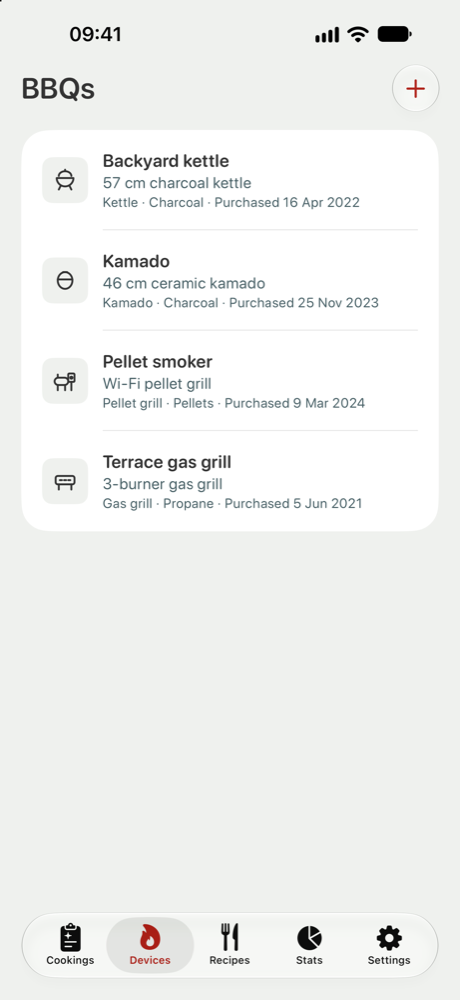
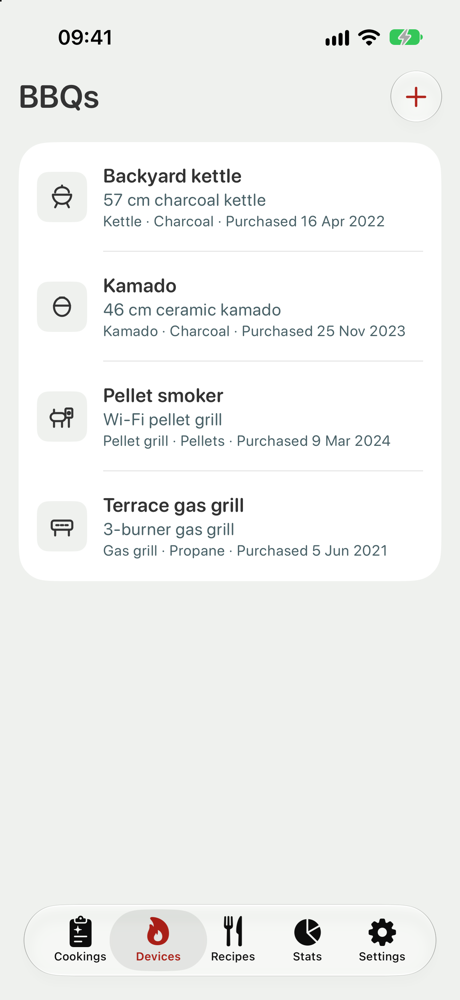
docs: add quick actions, iCloud sync and a table of contents to the showcase
Add the app icon, a table of contents, emoji headings and bold keywords. Explain the Home Screen quick actions with a screenshot of the menu and iCloud sync, and re-capture the cookings, cooking detail and devices screenshots with the new demo barbecue names.

diff --git a/README.md b/README.md
@@ -1,11 +1,15 @@
 <!-- showcase:hero:start -->
+<p align="center">
+  <img src="assets/img/app-icon.png" alt="GrillMate app icon" width="128">
+</p>
+
 # GrillMate
 
 **Log cooks, grills & recipes.**
 
-GrillMate is a native iOS logbook for barbecue: record every cooking session, keep track of your grills and smokers, save the recipes you want to make again, see how you cook through stats and charts, and keep everything in sync across your devices with iCloud. It's built with SwiftUI for iOS 26.
+GrillMate is a **native iOS logbook for barbecue**: record every cooking session, keep track of your grills and smokers, save the recipes you want to make again, see how you cook through **stats and charts**, and keep everything in sync across your devices with **iCloud**. It's built with **SwiftUI for iOS 26**.
 
-A personal project by Andrea Stevanato, designed, built, tested and shipped end to end. The app's source code is private: this README shows what the app does and explains how it's built.
+A personal project by **Andrea Stevanato**, designed, built, tested and shipped end to end. The app's source code is private: this README shows what the app does and explains how it's built.
 
 <p align="center">
   <img src="assets/screenshots/cookings.png" alt="Cookings list" width="200">
@@ -17,46 +21,61 @@ A personal project by Andrea Stevanato, designed, built, tested and shipped end 
 
 Website: [grillmate.pages.dev](https://grillmate.pages.dev/)
 
+<!-- showcase:toc:start -->
+## 📑 Contents
+
+- [👀 At a glance](#-at-a-glance)
+- [✨ Features](#-features)
+  - [🍖 Cookings](#-cookings) · [🔥 Devices](#-devices) · [📖 Recipes](#-recipes) · [📊 Stats](#-stats)
+  - [⚡ Quick actions](#-quick-actions) · [🔄 iCloud sync](#-icloud-sync) · [🔧 Settings and onboarding](#-settings-and-onboarding)
+- [🧰 Tech stack](#-tech-stack)
+- [🧱 Architecture](#-architecture)
+- [💡 Technical highlights](#-technical-highlights)
+- [✅ Quality](#-quality)
+- [🆕 What's new](#-whats-new)
+- [🔭 What's next](#-whats-next)
+<!-- showcase:toc:end -->
+
 <!-- showcase:glance:start -->
-## At a glance
+## 👀 At a glance
 
 | | |
 |---|---|
-| **What** | A complete iOS app: five tabs, add/edit forms with photos, charts, theming, iCloud sync, data export and import, onboarding, English and Italian |
-| **Architecture** | Modular: one Swift package per feature plus shared core and UI packages, MVVM with repositories and dependency injection |
-| **Modern Apple stack** | Swift 6 strict concurrency, SwiftUI, Observation, Swift Charts, Core Data with CloudKit, Swift Testing |
+| **What** | A complete iOS app: five tabs, add/edit forms with photos, charts, theming, **iCloud sync**, data export and import, **Home Screen quick actions**, onboarding, English and Italian |
+| **Architecture** | **Modular**: one Swift package per feature plus shared core and UI packages, **MVVM** with repositories and **dependency injection** |
+| **Modern Apple stack** | **Swift 6** strict concurrency, **SwiftUI**, Observation, **Swift Charts**, **Core Data with CloudKit**, **Swift Testing** |
 | **Engineering practice** | Generated Xcode project, lint in the build, unit tests per package, Conventional Commits, gitflow and a changelog |
 <!-- showcase:glance:end -->
 
 <!-- showcase:features:start -->
-## Features
+## ✨ Features
 
 Every screenshot is taken from the app running on demo data.
 
-### Cookings
-Log every session and follow it from planned to completed.
+### 🍖 Cookings
+Log every session and follow it from **planned** to **completed**.
 
 <p align="center">
   <img src="assets/screenshots/cookings.png" alt="Cookings list grouped by month" width="260">
   <img src="assets/screenshots/cooking-detail.png" alt="Cooking detail with a stretchy photo header" width="260">
 </p>
 
-- Title, barbecue, status (planned, in progress, completed), proteins and technique
-- Start and end time, target, reached and ambient temperatures, notes
-- Up to 3 photos per cook, from the camera or the photo library
-- A list grouped by month, with photo banners and swipe to complete
+- Title, barbecue, **status** (planned, in progress, completed), proteins and technique
+- Start and end time, **target, reached and ambient temperatures**, notes
+- Up to **3 photos** per cook, from the camera or the photo library
+- A list **grouped by month**, with photo banners and **swipe to complete**
 
-### Devices
+### 🔥 Devices
 All your grills, smokers, kamados and planchas in one place.
 
 <p align="center">
   <img src="assets/screenshots/devices.png" alt="Devices list" width="260">
 </p>
 
-- Manufacturer picked from a long list of brands (or "Other"), plus model and description
-- Type, fuel, grilling area, burners, portability, purchase date and notes
+- **Manufacturer** picked from a long list of brands (or "Other"), plus model and description
+- Type, **fuel**, grilling area, burners, portability, purchase date and notes
 
-### Recipes
+### 📖 Recipes
 Save the recipes you want to make again.
 
 <p align="center">
@@ -64,61 +83,78 @@ Save the recipes you want to make again.
   <img src="assets/screenshots/recipe-detail.png" alt="Recipe detail with a photo gallery" width="260">
 </p>
 
-- Name, summary, technique, prep and cook time, servings and target core temperature
-- Ingredients with quantity and unit, ordered steps, notes and up to 3 photos
-- A swipeable full-width photo gallery in the detail
+- Name, summary, technique, **prep and cook time**, servings and **target core temperature**
+- **Ingredients** with quantity and unit, **ordered steps**, notes and up to 3 photos
+- A swipeable full-width **photo gallery** in the detail
 
-### Stats
-See how you cook, with Swift Charts.
+### 📊 Stats
+See how you cook, with **Swift Charts**.
 
 <p align="center">
   <img src="assets/screenshots/stats.png" alt="Stats for this year" width="260">
   <img src="assets/screenshots/stats-ocean.png" alt="Stats with the Ocean accent color" width="260">
 </p>
 
-- This month's cooks, total, average and longest cooking time, and a chart of the proteins cooked
-- Extended stats (PRO): other periods, time per barbecue, techniques, barbecue types, cooks per month, core temperature accuracy and busiest day
-- Charts follow the accent color chosen in Settings (right: the Ocean theme)
+- This month's cooks, **total, average and longest cooking time**, and a chart of the proteins cooked
+- **Extended stats (PRO)**: other periods, time per barbecue, techniques, barbecue types, cooks per month, core temperature accuracy and busiest day
+- Charts follow the **accent color** chosen in Settings (right: the Ocean theme)
 
-### Settings, sync and onboarding
+### ⚡ Quick actions
+Long-press the app icon to jump straight into the app.
+
+<p align="center">
+  <img src="assets/screenshots/quick-actions.png" alt="Home Screen quick actions menu" width="260">
+</p>
+
+- **New cooking**, **New recipe**, **Stats** and **Add device**, one tap from the Home Screen
+- The **cooking in progress**, or the next planned one, comes first and opens directly, so you can update a cook while it's on the grill
+- The menu is **dynamic**: it's refreshed every time you leave the app, so it always shows your current cook, in English or Italian
+
+### 🔄 iCloud sync
+Your logbook on every device.
+
+- Barbecues, cookings, recipes and **photos** sync across your iPhones through your **private iCloud database** (PRO)
+- One toggle in Settings turns sync **on or off immediately**, without restarting the app
+- Open lists **refresh by themselves** when changes arrive from another device
+- **Export** everything, photos included, to a single file, and **import** it back to restore your data on any iPhone
+
+### 🔧 Settings and onboarding
 
 <p align="center">
   <img src="assets/screenshots/settings.png" alt="Settings with the Data section" width="260">
   <img src="assets/screenshots/onboarding.png" alt="Onboarding tour" width="260">
 </p>
 
-- Light, dark or system appearance, six accent colors and eight app icons (PRO)
-- iCloud sync across devices (PRO), turned on and off without restarting the app
-- Export everything, photos included, to a file, and import it back to restore your data on any iPhone
-- A first-launch onboarding tour that can be replayed
+- Light, dark or system appearance, **six accent colors** and **eight app icons** (PRO)
+- A first-launch **onboarding tour** that can be replayed
 - Privacy policy, terms of use and release notes open on the GrillMate website, in the app's language
-- Full-screen photo viewer with paging and pinch to zoom
-- English and Italian
+- Full-screen **photo viewer** with paging and pinch to zoom
+- **English and Italian**
 <!-- showcase:features:end -->
 
 <!-- showcase:stack:start -->
-## Tech stack
+## 🧰 Tech stack
 
 | Area | Choice |
 |------|--------|
-| Platform | iOS 26+, Xcode 26 |
-| Language | Swift 6 with strict concurrency; main-actor default isolation and approachable concurrency in the app target |
-| UI | SwiftUI, Observation (`@Observable`), Swift Charts |
-| Persistence | Core Data, used as a Codable store, mirrored to the user's private iCloud database with CloudKit |
+| Platform | **iOS 26+**, Xcode 26 |
+| Language | **Swift 6** with strict concurrency; main-actor default isolation and approachable concurrency in the app target |
+| UI | **SwiftUI**, Observation (`@Observable`), **Swift Charts** |
+| Persistence | **Core Data**, used as a Codable store, mirrored to the user's private iCloud database with **CloudKit** |
 | Dependency injection | [Factory](https://github.com/hmlongco/Factory), behind a thin in-house wrapper |
-| Modularization | Local Swift packages: one per feature plus two shared ones |
+| Modularization | Local **Swift packages**: one per feature plus two shared ones |
 | Project generation | [Tuist](https://tuist.dev) |
 | Lint | [SwiftLint](https://github.com/realm/SwiftLint), run as a pre-build phase, with custom rules |
-| Tests | Swift Testing |
+| Tests | **Swift Testing** |
 | Localization | String catalogs (`.xcstrings`), English and Italian |
 
 Factory is the only third-party runtime dependency.
 <!-- showcase:stack:end -->
 
 <!-- showcase:architecture:start -->
-## Architecture
+## 🧱 Architecture
 
-The app target is a thin shell: it owns the `TabView` and wires each tab to a feature package. Everything else lives in local Swift packages.
+The app target is a **thin shell**: it owns the `TabView`, the scene delegate for quick actions and the deep-link routing, and wires each tab to a feature package. Everything else lives in local Swift packages.
 
 ```mermaid
 graph TD
@@ -140,7 +176,7 @@ graph TD
 - **`GrillMateCoreUI` doesn't depend on `GrillMateCore`.** Shared components take plain, already formatted values, and each feature maps its domain models to them.
 - **One public entry point per feature**: a `@MainActor` factory enum that returns the feature's navigation stack. Screens, view models and routes stay internal to the package.
 
-### Data flow
+### 🔀 Data flow
 
 ```mermaid
 flowchart LR
@@ -151,73 +187,78 @@ flowchart LR
     DataSource --> CoreData[(Core Data)]
 ```
 
-View models are `@Observable` main-actor classes that expose a `ViewState<T>` (idle, loading, loaded, error) and resolve their repositories from the DI container. Only the repository protocols are public: data sources and the Core Data stack are internal to `GrillMateCore` and do their work on background contexts.
+View models are `@Observable` main-actor classes that expose a `ViewState<T>` (idle, loading, loaded, error) and resolve their repositories from the DI container. Only the **repository protocols are public**: data sources and the Core Data stack are internal to `GrillMateCore` and do their work on **background contexts**.
 <!-- showcase:architecture:end -->
 
 <!-- showcase:highlights:start -->
-## Technical highlights
+## 💡 Technical highlights
 
-### Navigation as data
-Each feature owns a generic, observable `Router<Route>` bound to `NavigationStack(path:)`, with an enum of routes. Screens never touch the router: they receive closures such as `onAddTapped` or `onCookingTapped`, so they stay reusable and easy to preview.
+### 🧭 Navigation as data
+Each feature owns a generic, observable `Router<Route>` bound to `NavigationStack(path:)`, with an enum of routes. Screens never touch the router: they receive closures such as `onAddTapped` or `onCookingTapped`, so they stay **reusable and easy to preview**.
 
-### Core Data as a Codable blob store
-Every persisted entity has the same three attributes: an id, a JSON-encoded payload of the domain model and an update date. Domain models stay plain `Codable` Swift structs, and adding a persisted type takes one entity plus a small data source on top of generic fetch and upsert helpers. Models that change shape keep decoding their legacy payloads, with tests that decode the old JSON. The schema follows CloudKit's rules (no uniqueness constraints, every attribute optional), enforced by a test.
+### ⚡ Quick actions as deep links
+Every quick action is a **deep link** on a custom URL scheme, parsed into a typed `DeepLink` in `GrillMateCore`. The root view picks the tab, and each feature's navigation stack turns the link into its own routes, so a quick action, and any future widget or notification, opens the right screen **without features knowing about each other**. The shortcut items are rebuilt from the current data whenever the app goes to the background.
 
-### iCloud sync that switches live
-A single shared Core Data stack can reload its store with or without `NSPersistentCloudKitContainer` on the same file, so turning sync on or off applies immediately. Without uniqueness constraints, reads keep only the newest copy of an id, deletes run in a context so they're mirrored, and remote changes, coalesced to one per second, tell the open lists to reload.
+### 💾 Core Data as a Codable blob store
+Every persisted entity has the same three attributes: an id, a **JSON-encoded payload** of the domain model and an update date. Domain models stay plain `Codable` Swift structs, and adding a persisted type takes one entity plus a small data source on top of generic fetch and upsert helpers. Models that change shape keep **decoding their legacy payloads**, with tests that decode the old JSON. The schema follows **CloudKit's rules** (no uniqueness constraints, every attribute optional), enforced by a test.
 
-### A portable export format
-Export writes one versioned JSON file with every item and photo. Import decodes and validates the whole file before touching the store, rejects files from newer app versions, and replaces the data only after a confirmation that shows what the file contains.
+### 🔄 iCloud sync that switches live
+A single shared Core Data stack can **reload its store** with or without `NSPersistentCloudKitContainer` on the same file, so turning sync on or off applies immediately. Without uniqueness constraints, reads keep only the newest copy of an id, deletes run in a context so they're mirrored, and remote changes, **coalesced to one per second**, tell the open lists to reload.
 
-### Photos out of the hot path
-Cooking and recipe photos live in their own entities, indexed by owner, rather than inside the parent payload, so list fetches never decode image data. Photos are downsampled with ImageIO before being stored and are deleted together with their owner.
+### 📦 A portable export format
+Export writes one **versioned JSON file** with every item and photo. Import decodes and **validates the whole file** before touching the store, rejects files from newer app versions, and replaces the data only after a confirmation that shows what the file contains.
 
-### Design tokens and a themable accent
-Colors, fonts and SF Symbols are read through `Design` tokens; features never hard-code a symbol name. The accent color is an environment value set once at the root, so changing the theme recolors controls, cards and Swift Charts palettes in one place.
+### 📸 Photos out of the hot path
+Cooking and recipe photos live in **their own entities, indexed by owner**, rather than inside the parent payload, so list fetches never decode image data. Photos are **downsampled with ImageIO** before being stored and are deleted together with their owner.
 
-### Shared UI, different data
-Cards, form fields, photo galleries and the stretchy photo header live in `GrillMateCoreUI`. The onboarding, the lists and the stats render the same components: the onboarding feeds them sample strings, the lists feed them domain data.
+### 🎨 Design tokens and a themable accent
+Colors, fonts and SF Symbols are read through `Design` **tokens**; features never hard-code a symbol name. The accent color is an **environment value** set once at the root, so changing the theme recolors controls, cards and Swift Charts palettes in one place.
 
-### Free and PRO behind one protocol
-PRO status and the free-tier limits are read from a single entitlement repository, and the limits are configured in one place. Features ask `isPro()` and never know where the answer comes from.
+### 🧩 Shared UI, different data
+Cards, form fields, photo galleries and the stretchy photo header live in `GrillMateCoreUI`. The onboarding, the lists and the stats render **the same components**: the onboarding feeds them sample strings, the lists feed them domain data.
 
-### Demo data schemes
-Two extra schemes launch the app on an in-memory store filled with realistic data (barbecues, recipes and a year of cookings dated relative to today), one as a free user and one as PRO. They're used for screenshots, demos and manual testing, never touch the real store, and are compiled only in Debug.
+### 💎 Free and PRO behind one protocol
+PRO status and the free-tier limits are read from a **single entitlement repository**, and the limits are configured in one place. Features ask `isPro()` and never know where the answer comes from.
 
-### Localized per package
-Each package ships its own string catalog in English and Italian. A custom SwiftLint rule fails the build when a view in a package uses a bare string literal, which would be looked up in the app's catalog and never translated.
+### 🧪 Demo data schemes
+Two extra schemes launch the app on an **in-memory store** filled with realistic data (barbecues, recipes and a year of cookings dated relative to today), one as a free user and one as PRO. They're used for screenshots, demos and manual testing, **never touch the real store**, and are compiled only in Debug.
+
+### 🌍 Localized per package
+Each package ships its **own string catalog** in English and Italian. A **custom SwiftLint rule** fails the build when a view in a package uses a bare string literal, which would be looked up in the app's catalog and never translated.
 <!-- showcase:highlights:end -->
 
 <!-- showcase:quality:start -->
-## Quality
+## ✅ Quality
 
-- **Tests**: more than 80 Swift Testing tests across the core, UI and feature packages, including an export and import round trip, a check that the Core Data model stays CloudKit-compatible and decoding tests for legacy payloads.
-- **Lint**: SwiftLint runs before every build, with rules such as no force unwrapping, implicit returns and closure length limits, plus custom project rules.
-- **Generated project**: the Xcode project and workspace are generated from a single Tuist manifest.
-- **Process**: Conventional Commits, gitflow with pull requests into `develop`, and a changelog following Keep a Changelog.
+- **Tests**: about **90 Swift Testing tests** across the app, core, UI and feature packages, including quick-action building, an export and import round trip, a check that the Core Data model stays CloudKit-compatible and decoding tests for legacy payloads.
+- **Lint**: **SwiftLint runs before every build**, with rules such as no force unwrapping, implicit returns and closure length limits, plus custom project rules.
+- **Generated project**: the Xcode project and workspace are generated from a single **Tuist** manifest.
+- **Process**: **Conventional Commits**, **gitflow** with pull requests into `develop`, and a changelog following Keep a Changelog.
 <!-- showcase:quality:end -->
 
 <!-- showcase:whats-new:start -->
-## What's new
+## 🆕 What's new
 
 *In development, ahead of the 1.0 release:*
 
-- iCloud sync across your devices (PRO)
-- Export all your data to a file and import it back
-- Six accent colors and eight app icons, including a Pride icon
-- Italian localization across the whole app
-- A recipe photo gallery, and photo thumbnails in the recipe cards
+- **Home Screen quick actions**, with your cook in progress one tap away
+- **iCloud sync** across your devices (PRO)
+- **Export** all your data to a file and **import** it back
+- **Six accent colors** and **eight app icons**, including a Pride icon
+- **Italian** localization across the whole app
+- A recipe **photo gallery**, and photo thumbnails in the recipe cards
 - Cooking cards with a photo banner, grouped by month, with swipe to complete
-- A full-screen photo viewer with paging and pinch to zoom
 - A "What's new" link in Settings, with the privacy policy and terms on the new GrillMate website
-- Correct plurals for recipe units ("2 cups", "4 tablespoons")
 <!-- showcase:whats-new:end -->
 
 <!-- showcase:next:start -->
-## What's next
+## 🔭 What's next
 
-- PRO version with in-app purchase
-- Paywall
+- PRO version with in-app purchase and a paywall
+- Widgets
+- Live Activity and Dynamic Island for the cook in progress
+- Control Center controls
+- Cook alarms
 - AI-assisted cooking features
 - Engagement notifications
 - Crash reporting and analytics
